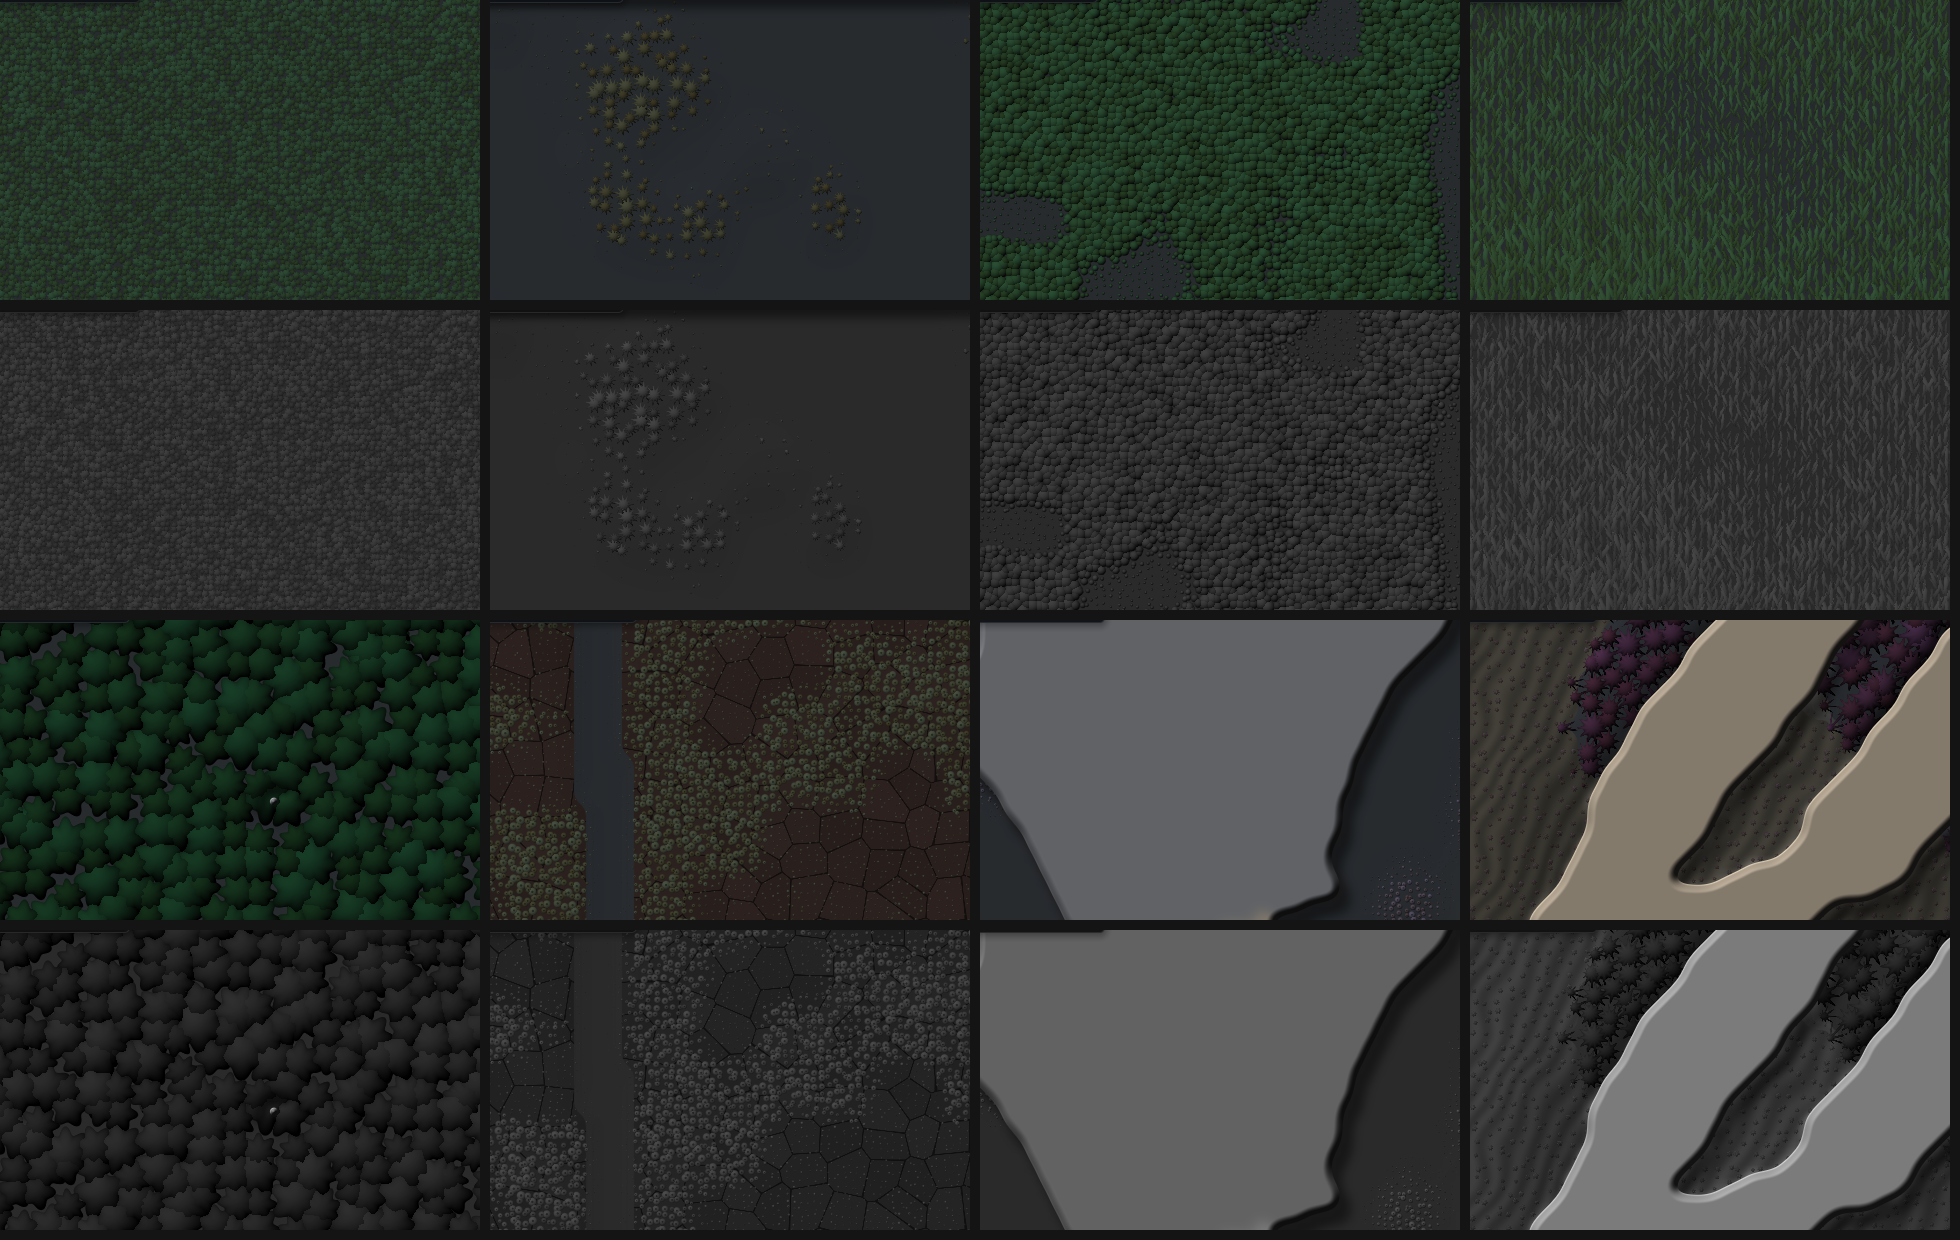
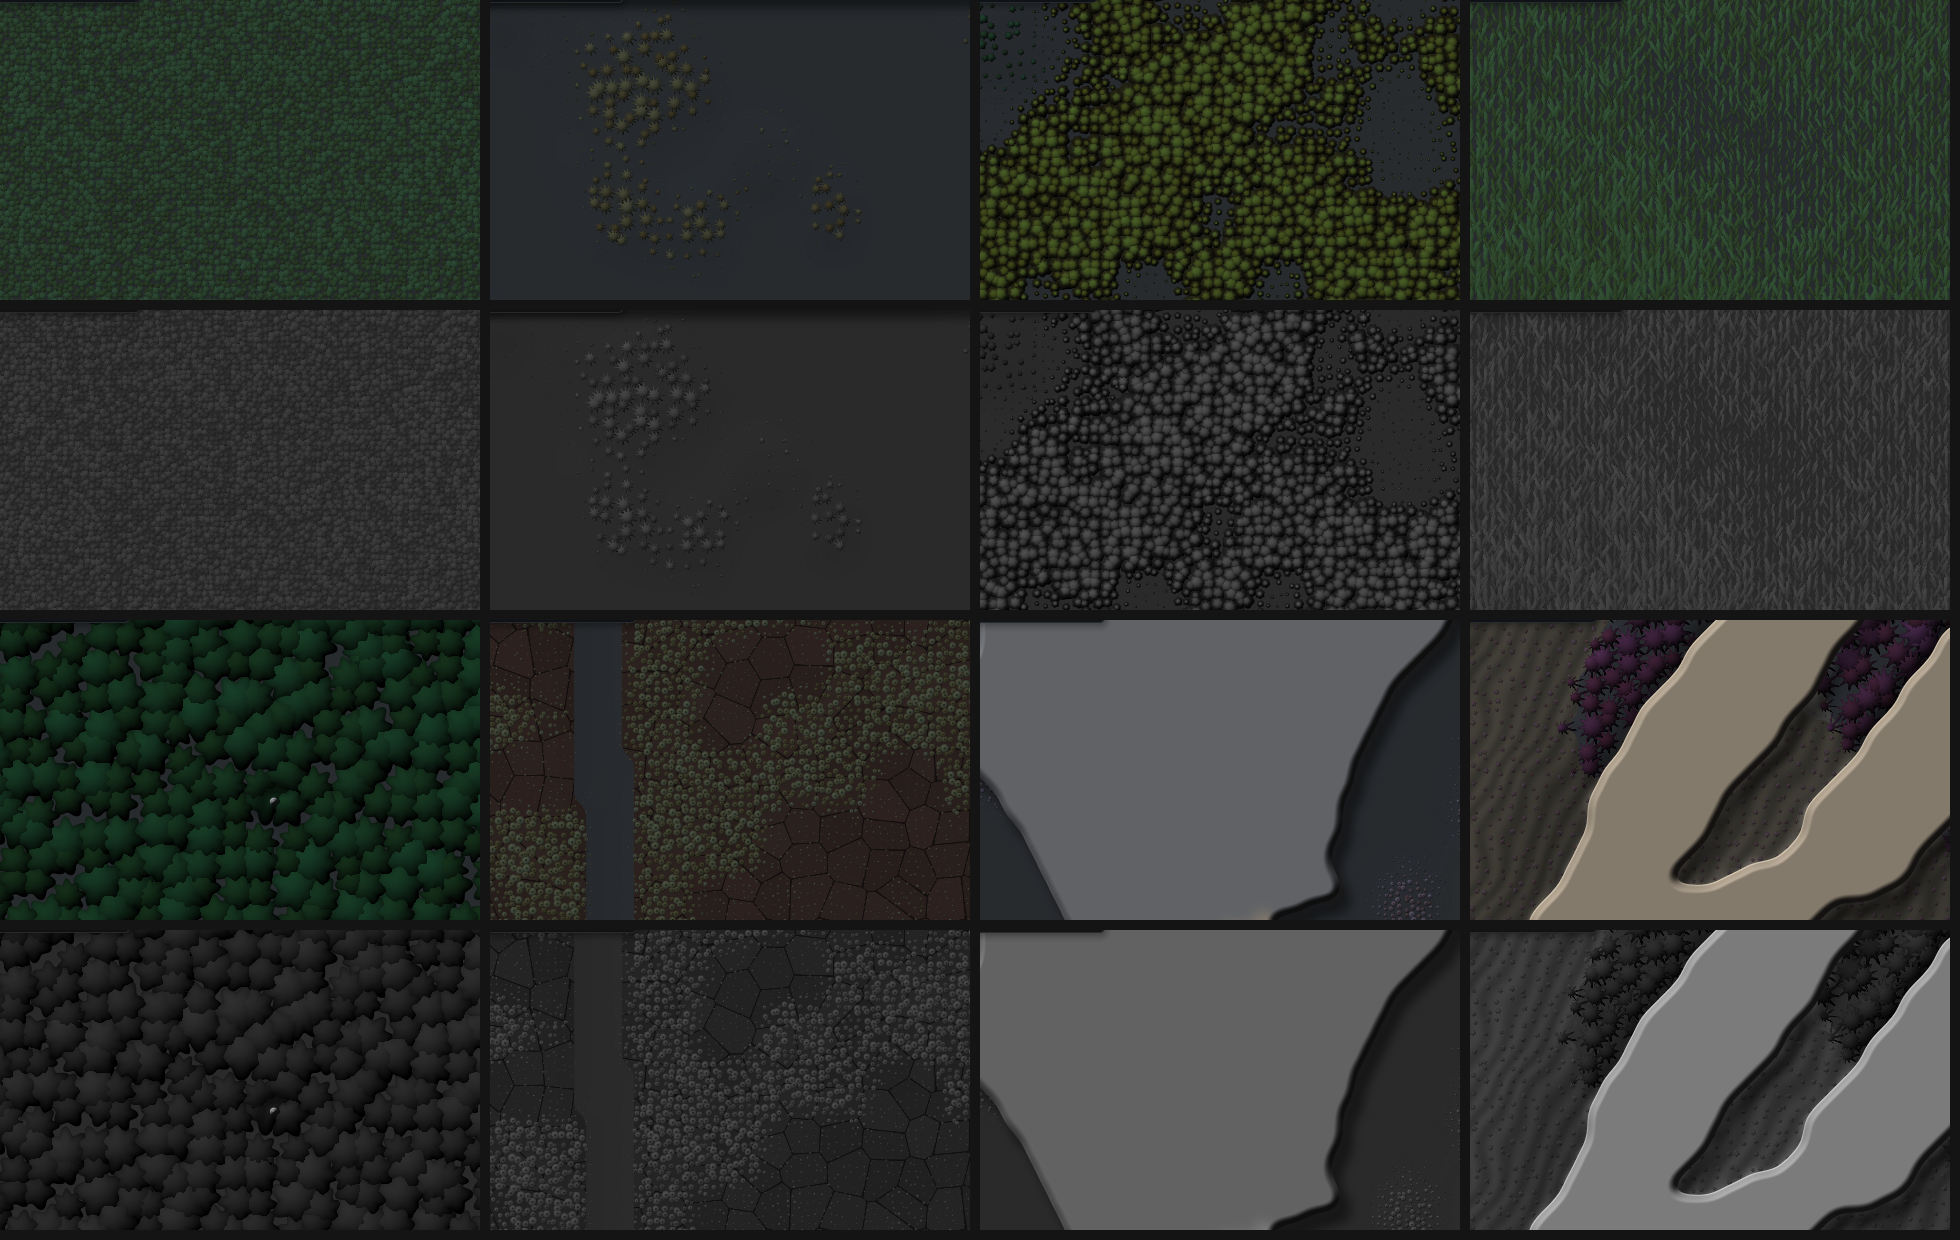
Fen moss hummocks and purple core flora (art lead follow-up); flora set on plant-less maps
Art lead 11-15 02:51Z on #315: meadow and fen were the closest pair, and
the core's flora must stay purple, not red (red is danger's).
- Fen moss: dark olive-brown (30,29,16) with yellow-green tops (62,74,28),
  0.85 cells apart (meadow 0.45), gathered on the wettest ground by the
  moisture field (block 7, new Form.wet), not by noise alone. Zoom 12,
  seed 1, saturated pixels: fen luma p10/50/90 26/44/57 -> 15/34/65 (meadow
  37/48/57), hue p50 128 -> 71. Rejected: tips (86,96,38) over most of the
  dome read bright yellow-olive.
- Core flora hue p10/50/90 298/313/330 -> 293/307/324 (target 290-320).
- Style guide: core flora purple-magenta, the only purple on the map.
- BigDish::flora_of is set before place_plants' early return, so a map
  without plants still gives the view its biome (the ground thread reads
  P.flora for the soils).

Tests 467 + 32 + 39 pass; clippy clean.

Claude-Session: https://claude.ai/code/session_01PYHSSsqQFWZinMfB8dP36y

Changed region(s): [[0.498, 0.0, 0.7469, 0.4903]]

diff --git a/Reports/review-fixes-2026-11-15/page/index.html b/Reports/review-fixes-2026-11-15/page/index.html
@@ -56,8 +56,16 @@ th { font-weight: 600; color: var(--muted); }
   <section>
     <h2>Each planet's plants, zoom 12</h2>
     <figure>
-      <img src="flora.png" alt="Eight close-up windows, one per planet, each with a grey copy under it: fine meadow tufts, sparse dry thorn clumps, big moss cushions, long blade grass, star-lobed jungle canopy, lichen rosettes on cracked rock, bare cave rock with a few pale fungi, and wine-red thorns on the core planet.">
-      <figcaption>Planets 1 to 8, seed 1, at 2 s, each in its most common plant, colour above and grey below. Top row: meadow (small tufts), barrens (dry thorn clumps, sparse and bunched), fen (big soft moss cushions), valley (long grass blades). Third row: jungle (large star-lobed canopy), highlands (lichen rosettes with dark eyes, in clumps), caves (pale fungus caps; this planet has very few plants, so the window is mostly rock), core (wine-red thorns and rings). The planet's biome now travels in the map file, so a hand-made map keeps the old look.</figcaption>
+      <img src="flora.png" alt="Eight close-up windows, one per planet, each with a grey copy under it: fine meadow tufts, sparse dry thorn clumps, olive moss hummocks, long blade grass, star-lobed jungle canopy, lichen rosettes on cracked rock, bare cave rock with a few pale fungi, and purple thorns on the core planet.">
+      <figcaption>Planets 1 to 8, seed 1, at 2 s, each in its most common plant, colour above and grey below. Top row: meadow (small tufts), barrens (dry thorn clumps, sparse and bunched), fen (dark olive-brown moss hummocks with yellow-green tips, gathered on the wettest ground), valley (long grass blades). Third row: jungle (large star-lobed canopy), highlands (lichen rosettes with dark eyes, in clumps), caves (pale fungus caps; this planet has very few plants, so the window is mostly rock), core (purple-magenta thorns and rings, the only purple on the map). The planet's biome now travels in the map file, so a hand-made map keeps the old look.</figcaption>
     </figure>
+    <div class="table"><table>
+      <tr><th></th><th>luma p10 / p50 / p90</th><th>hue p10 / p50 / p90</th></tr>
+      <tr><td>Meadow</td><td>37 / 48 / 57</td><td>110 / 126 / 136</td></tr>
+      <tr><td>Fen before</td><td>26 / 44 / 57</td><td>115 / 128 / 136</td></tr>
+      <tr><td>Fen now</td><td>15 / 34 / 65</td><td>52 / 71 / 137</td></tr>
+      <tr><td>Core before</td><td>13 / 32 / 46</td><td>298 / 313 / 330</td></tr>
+      <tr><td>Core now</td><td>13 / 32 / 47</td><td>293 / 307 / 324</td></tr>
+    </table></div>
   </section>
 </main>

diff --git a/src/mould/big.rs b/src/mould/big.rs
@@ -1810,6 +1810,9 @@ impl BigDish {
     /// cell's capacity; empty (plants off) when neither gives any.
     fn place_plants(&mut self, map: Option<&Map>) {
         use crate::mould::plants as pl;
+        // The biome's flora is the map's even with no plants on it: the
+        // ground's look reads it too (ground thread, 11-15).
+        self.flora_of = map.and_then(|m| m.items.flora);
         let has_map = map.is_some_and(|m| !m.plants.is_empty());
         if !has_map && self.p.plant_fill <= 0.0 {
             return;
@@ -1839,7 +1842,6 @@ impl BigDish {
         // Water for moisture: wet ground and deep water (soil 4).
         let water: Vec<bool> = (0..n).map(|i| (!self.wet.is_empty() && self.wet[i]) || (!self.soil.is_empty() && self.soil[i] == 4)).collect();
         self.moisture_of = map.and_then(|m| m.items.moisture);
-        self.flora_of = map.and_then(|m| m.items.flora);
         let (base, spread) = self.moisture_of.unwrap_or((0.15, 0.3));
         self.moist = pl::moisture(w, self.h, &water, &self.plant_kind, self.p.seed as u32, base, spread);
     }

diff --git a/Reports/review-fixes-2026-11-15/README.md b/Reports/review-fixes-2026-11-15/README.md
@@ -29,15 +29,31 @@ Page: https://claude.ai/artifact/GfhdLAM5txddNwy9kT43e4 (`page/`, `raw/films.sh`
     |---|---|
     | Meadow | Fine tufts and round trees, as before |
     | Barrens | Thorn bushes in patches, dry grass blades, palm-like thorned crowns at oases |
-    | Fen | Puffy moss cushions in patches, low swamp shrubs |
+    | Fen | Dark olive-brown moss hummocks with yellow-green tips, gathered on the wettest ground; low swamp shrubs |
     | River valley | Long grass, blade by blade |
     | Jungle | A broadleaf canopy of big crowns (2.3 cells apart) over ferns |
     | Highlands | Lichen rosettes and cushion plants in patches, firs |
     | Caves | Fungi in a dark mauve-grey: caps with a dark eye, giant caps for the jungle kind, stalks for reeds |
-    | Core | Alien growth in dark wine: coral rings and thorned crowns |
+    | Core | Alien growth in purple-magenta (hue 290-320, the only purple on the map): coral rings and thorned crowns |
 
   - No flora uses cyan, which belongs to the crystals, or gold or red-orange, which belong to the slime and the fire.
   - Rejected for the fen: tight 0.35-cell cushions read as meadow. For the valley: thin blades (3 x 0.6) barely showed at zoom 12.
+- **Art lead's follow-up (11-15 02:51Z):**
+  - Meadow and fen were the closest pair: green round clumps on both. The fen's moss is now dark olive-brown (30,29,16), and each hummock's top turns yellow-green (62,74,28). The hummocks are 0.85 cells apart, against the meadow's 0.45.
+  - The hummocks gather on the wettest ground by the moisture field (block 7, `plant_moist`), which is up to 0.4 wetter within 8 cells of water. Before, they gathered by a noise alone, as an even carpet.
+  - The first cut's tips (86,96,38) over most of each dome read as a bright yellow-olive. The tips now cover only the top (dome 0.8-1).
+  - The core's flora is kept purple-magenta, because red is danger's colour. Its colours moved off the red side.
+  - Measured at zoom 12, 2 s, seed 1, on pixels with saturation over 0.2:
+
+    | | luma p10 / p50 / p90 | hue p10 / p50 / p90 |
+    |---|---|---|
+    | Meadow, planet 1 | 37 / 48 / 57 | 110 / 126 / 136 |
+    | Fen before, planet 3 | 26 / 44 / 57 | 115 / 128 / 136 |
+    | Fen now | 15 / 34 / 65 | 52 / 71 / 137 |
+    | Core before, planet 8 | 13 / 32 / 46 | 298 / 313 / 330 |
+    | Core now | 13 / 32 / 47 | 293 / 307 / 324 |
+
+    In grey, the fen is now a coarser, darker grain than the meadow, with light tips.
 
 ## Measured
 

diff --git a/wiki/looks/art-direction.md b/wiki/looks/art-direction.md
@@ -44,7 +44,10 @@ did. The first review (11-14) found the slime out of focus, cell staircases on e
    slime warm gold to amber, grey as it starves (#212's ramp), each enemy
    species its own hue; crystals the only cyan (`theme::ENERGY` family);
    your team cream and olive with one accent colour; danger red
-   (`theme::BAD`) for warnings only. A new colour needs a role nobody has.
+   (`theme::BAD`) for warnings only; plants muted green (the fen's moss
+   olive-brown, the caves' fungi mauve-grey), the core planet's flora
+   purple-magenta (hue 290-320), the only purple on the map
+   ([review fixes](../../Reports/review-fixes-2026-11-15/README.md)). A new colour needs a role nobody has.
    The ground follows this since 11-14 (slate, flat luma 38; [dark ground](../../Reports/dark-ground-2026-11-14/README.md)). Each soil has its own material from the soil field since 11-14 (sand ripples, clay cracks, ash speckle, dark water with a smooth edge and shore, raised rock with a lit rim), so planets read apart in grey; the ripples bend and fade out below zoom 3, and barren ash sits a clear step under rock ([soil materials](../../Reports/soil-materials-2026-11-14/README.md)). Water is a clear step darker than any ground, deep water darker again toward its middle, with a shallow margin, waterline and damp bank; bridges are plank decks; soft rock at full health is a mid-grey under thin slime ([river look](../../Reports/river-look-2026-11-14/README.md)). Play is assumed zoomed in (owner, 11-14 20:21Z): every boundary between grounds, soils, water and plant patches and kinds, is drawn crisp at the pixel up to 24 px a cell, and no texture shows the cell grid ([ground edges](../../Reports/ground-edges-2026-11-14/README.md)); a shortcut past the soil spline must cover all 4 x 4 cells it reads, or the shore and bridge shading steps at cell middles; the full test costs about 0.2 ms of GPU a frame on the 1070 ([bug check](../../Reports/bug-check-2026-11-15/README.md)).
 4. **Sharp at every zoom, 1 to 24.** Hard shapes have exact edges worked
    out at the screen pixel and antialiased over one pixel; no cell stair is

diff --git a/wiki/world/plants.md b/wiki/world/plants.md
@@ -54,9 +54,10 @@ crown's top burns white-hot (luma ~240, over the slime's highlight; art
 lead 11-15). Plants, char and soil detail are gone under any slime by
 mid-film (`vis`, [report](../../Reports/review-fixes-2026-11-15/README.md)).
 Each planet draws its own plant forms (`flora_form`, keyed by the map's
-`flora` line, the biome): barrens dry thorn clumps, fen moss cushions,
+`flora` line, the biome): barrens dry thorn clumps, fen dark olive-brown moss hummocks with
+yellow-green tips on the wettest ground (block 7, moisture),
 valley long blades, jungle star-lobed canopy, highlands lichen rosettes,
-caves pale fungus caps, core wine-red thorns and rings; a map with no
+caves pale fungus caps, core purple-magenta thorns and rings (hue 290-320, the only purple); a map with no
 `flora` line keeps the meadow forms
 ([page](https://claude.ai/artifact/GfhdLAM5txddNwy9kT43e4))
 ([page](https://claude.ai/artifact/7ZFRbDuC4ahCxKVV6wDui5),
